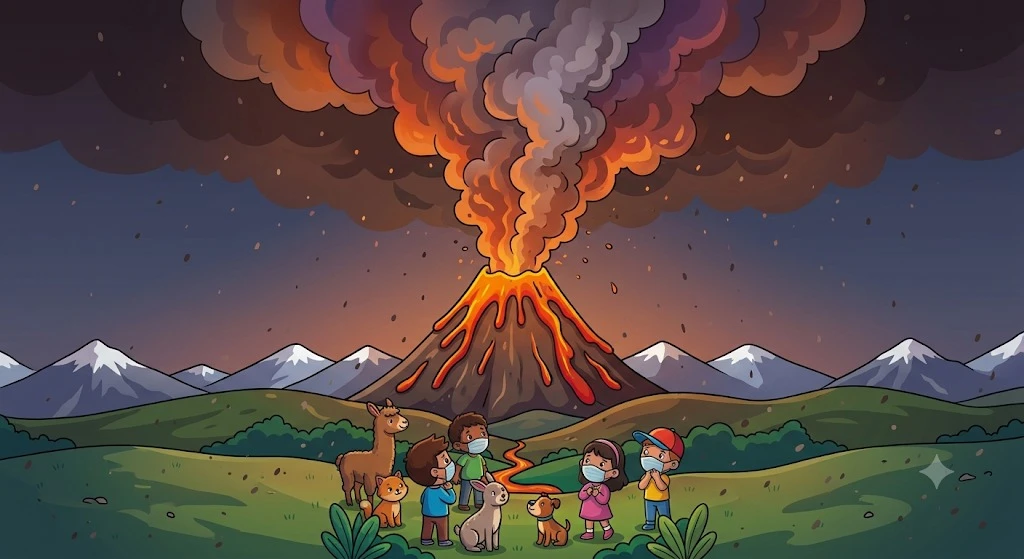
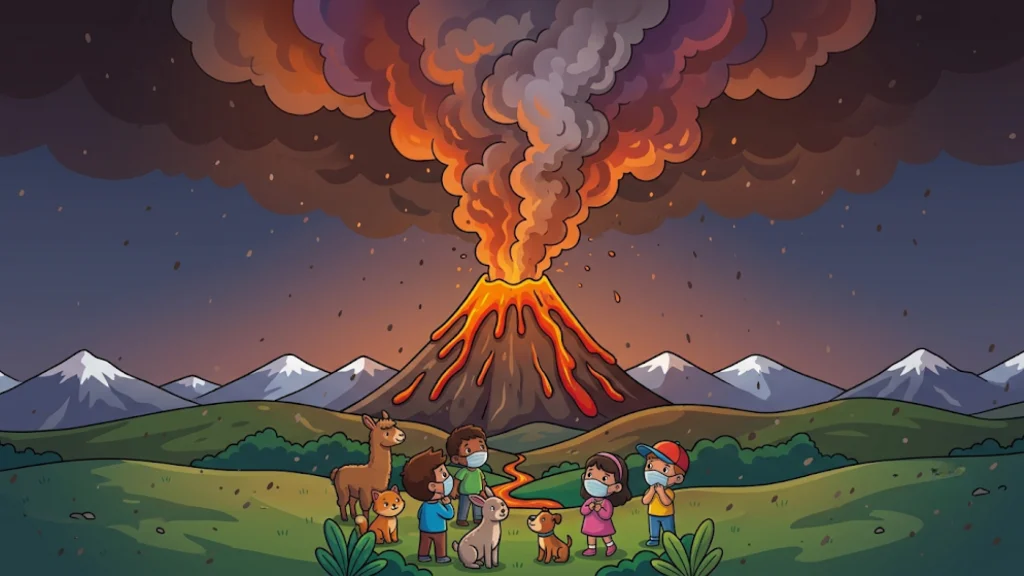
refactor: optimize images to WebP, update volcano hero + certificate, Q2 image multiple choice
- Replace volcano hero image with updated version

- Update certificate template with new layout (webp)

- Convert all quiz PNG assets to WebP (~90% size reduction)

- Change volcan Q2 from drag-and-drop to image-based multiple choice

- Remove old PNG and JPG files

diff --git a/src/components/Quiz.tsx b/src/components/Quiz.tsx
@@ -8,14 +8,19 @@ import volcanQ1Correcta from '../assets/quiz/volcan-q1-correcta.webp';
 import volcanQ1Mascarilla from '../assets/quiz/volcan-q1-opt-mascarilla.webp';
 import volcanQ1Bufanda from '../assets/quiz/volcan-q1-opt-bufanda.webp';
 import volcanQ1Gorra from '../assets/quiz/volcan-q1-opt-gorra.webp';
-import volcanQ2OptAbierto from '../assets/quiz/volcan-q2-opt-abierto.png';
-import volcanQ2OptCubierto from '../assets/quiz/volcan-q2-opt-cubierto.png';
-import volcanQ2OptDesbordado from '../assets/quiz/volcan-q2-opt-desbordado.png';
-import volcanQ3Base from '../assets/quiz/volcan-q3-base.png';
-import volcanQ3Correcta from '../assets/quiz/volcan-q3-correcta.png';
-import volcanQ3OptGafasProteccion from '../assets/quiz/volcan-q3-opt-gafas-proteccion.png';
-import volcanQ3OptLentesContacto from '../assets/quiz/volcan-q3-opt-lentes-contacto.png';
-import volcanQ3OptGafasSol from '../assets/quiz/volcan-q3-opt-gafas-sol.png';
+import volcanQ2OptAbierto from '../assets/quiz/volcan-q2-opt-abierto.webp';
+import volcanQ2OptCubierto from '../assets/quiz/volcan-q2-opt-cubierto.webp';
+import volcanQ2OptDesbordado from '../assets/quiz/volcan-q2-opt-desbordado.webp';
+import volcanQ3Base from '../assets/quiz/volcan-q3-base.webp';
+import volcanQ3Correcta from '../assets/quiz/volcan-q3-correcta.webp';
+import volcanQ3OptGafasProteccion from '../assets/quiz/volcan-q3-opt-gafas-proteccion.webp';
+import volcanQ3OptLentesContacto from '../assets/quiz/volcan-q3-opt-lentes-contacto.webp';
+import volcanQ3OptGafasSol from '../assets/quiz/volcan-q3-opt-gafas-sol.webp';
+
+interface ImageOption {
+  label: string;
+  image: string;
+}
 
 interface Question {
   pregunta: string;
@@ -26,6 +31,7 @@ interface Question {
     imagenCorrecta: string;
     opciones: DragOption[];
   };
+  opcionesImagen?: ImageOption[];
 }
 
 interface QuizProps {
@@ -74,15 +80,11 @@ const Quiz: React.FC<QuizProps> = ({ tipo, onWin, onClose }) => {
         pregunta: '¿Qué debes hacer con los depósitos de agua en casa?',
         opciones: ['Dejarlos abiertos', 'Cubrirlos muy bien', 'Vaciarlos todos'],
         correcta: 1,
-        arrastrar: {
-          imagenBase: '',
-          imagenCorrecta: volcanQ2OptCubierto,
-          opciones: [
-            { label: 'Depósito abierto', image: volcanQ2OptAbierto },
-            { label: 'Cubierto', image: volcanQ2OptCubierto },
-            { label: 'Desbordado', image: volcanQ2OptDesbordado }
-          ]
-        }
+        opcionesImagen: [
+          { label: 'Dejarlos abiertos', image: volcanQ2OptAbierto },
+          { label: 'Cubrirlos muy bien', image: volcanQ2OptCubierto },
+          { label: 'Vaciarlos todos', image: volcanQ2OptDesbordado }
+        ]
       },
       {
         pregunta: 'Si usas lentes de contacto, ¿qué es mejor usar hoy?',
@@ -238,7 +240,54 @@ const Quiz: React.FC<QuizProps> = ({ tipo, onWin, onClose }) => {
               {actualQuestions[step].pregunta}
             </h2>
 
-            {actualQuestions[step].arrastrar ? (
+            {actualQuestions[step].opcionesImagen ? (
+              <div className="grid grid-cols-3 gap-4 mb-8">
+                {actualQuestions[step].opcionesImagen!.map((opImg, index) => {
+                  const isSelected = selected === index;
+                  const isCorrect = isSelected && status === 'correct';
+                  const isWrong = isSelected && status === 'wrong';
+
+                  return (
+                    <motion.button
+                      key={opImg.label}
+                      onClick={() => handleSelect(index)}
+                      disabled={status !== 'idle'}
+                      whileHover={status === 'idle' ? { scale: 1.05 } : {}}
+                      whileTap={status === 'idle' ? { scale: 0.97 } : {}}
+                      animate={isWrong ? { x: [0, -6, 6, -6, 6, 0] } : { x: 0 }}
+                      transition={isWrong ? { duration: 0.4 } : undefined}
+                      className={`relative flex flex-col items-center gap-2 rounded-2xl border-3 p-3 transition-all ${
+                        isCorrect
+                          ? 'border-emerald-400 bg-emerald-500/20 shadow-[0_0_24px_rgba(16,185,129,0.4)]'
+                          : isWrong
+                            ? 'border-red-400 bg-red-500/20'
+                            : 'border-white/15 bg-white/5 hover:border-white/30 hover:bg-white/10'
+                      }`}
+                    >
+                      <img
+                        src={opImg.image}
+                        alt={opImg.label}
+                        className="h-28 w-28 object-contain md:h-36 md:w-36"
+                        draggable={false}
+                      />
+                      <span className="text-[10px] font-black uppercase tracking-widest text-white/70">
+                        {opImg.label}
+                      </span>
+                      {isCorrect && (
+                        <motion.div initial={{ scale: 0 }} animate={{ scale: 1 }} className="absolute -right-2 -top-2 rounded-full bg-emerald-500 p-1.5 text-white shadow-lg">
+                          <CheckCircle2 size={18} />
+                        </motion.div>
+                      )}
+                      {isWrong && (
+                        <motion.div initial={{ scale: 0 }} animate={{ scale: 1 }} className="absolute -right-2 -top-2 rounded-full bg-red-500 p-1.5 text-white shadow-lg">
+                          <XCircle size={18} />
+                        </motion.div>
+                      )}
+                    </motion.button>
+                  );
+                })}
+              </div>
+            ) : actualQuestions[step].arrastrar ? (
               <div className="mb-8">
                 <DragDropQuestion
                   imagenBase={actualQuestions[step].arrastrar!.imagenBase}

diff --git a/src/components/CertificateModal.tsx b/src/components/CertificateModal.tsx
@@ -1,7 +1,7 @@
 import { useEffect, useRef, useState } from 'react';
 import { AnimatePresence, motion } from 'framer-motion';
 import { Award, Download, X } from 'lucide-react';
-import certificadoTemplateUrl from '../assets/certificado-aprobacion-template.jpg';
+import certificadoTemplateUrl from '../assets/certificado-aprobacion-template.webp';
 
 type Props = {
   open: boolean;
@@ -121,9 +121,11 @@ const CertificateModal = ({ open, onClose, nombre, institucion }: Props) => {
       ctx.fillText(date, CANVAS_WIDTH / 2, 995);
 
       if (institucion) {
-        ctx.font = '600 26px "Segoe UI", Arial, sans-serif';
-        ctx.fillStyle = '#334155';
-        ctx.fillText(institucion, CANVAS_WIDTH / 2, 673);
+        ctx.fillStyle = '#ffffff';
+        ctx.fillRect(505, 660, 770, 55);
+        ctx.font = '600 32px "Segoe UI", Arial, sans-serif';
+        ctx.fillStyle = '#050505';
+        ctx.fillText(institucion, CANVAS_WIDTH / 2, 693);
       }
 
       if (!cancelled) setReady(true);
